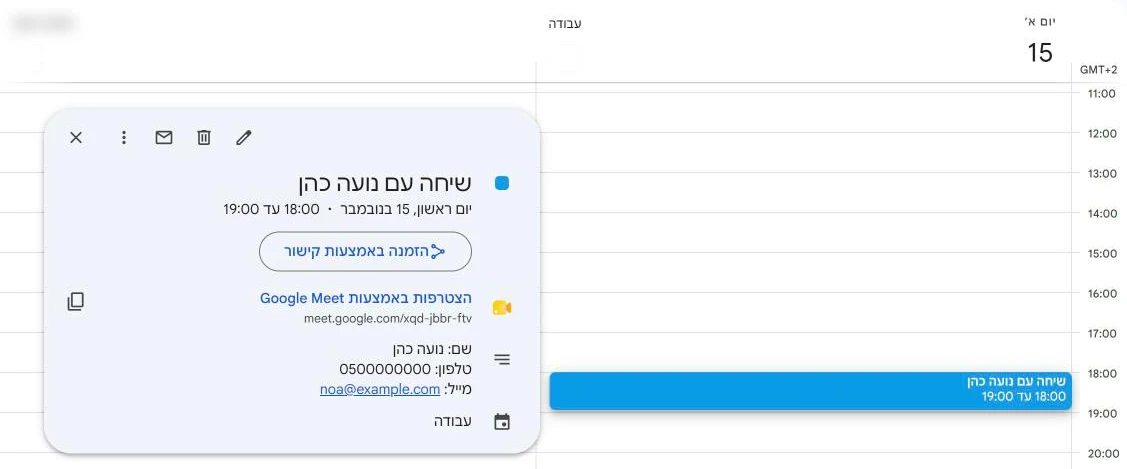
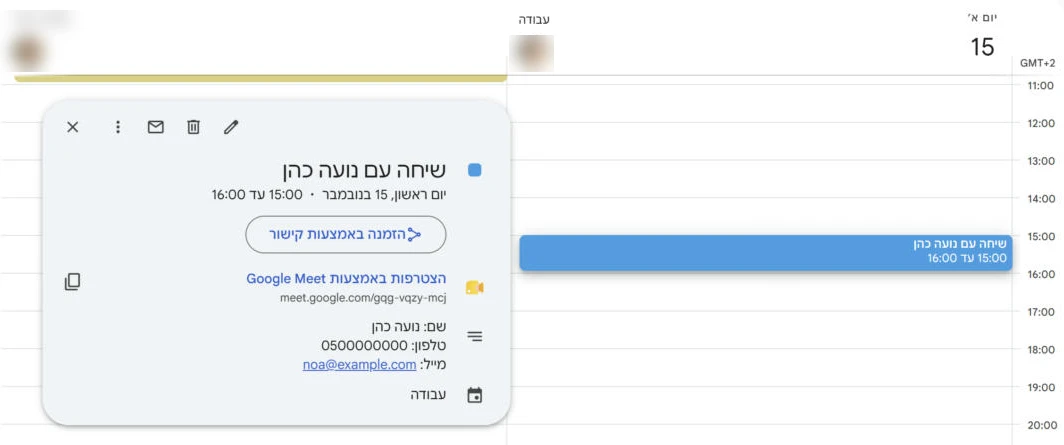
yoman: צילום יומן גוגל של אותה פגישה כמו בטופס (15:00)

diff --git a/yoman/index.html b/yoman/index.html
@@ -191,7 +191,7 @@
         <div class="shot-head shot-head-sm">
           <h4 class="feat-sub">וככה זה נראה ביומן גוגל שלכם - נכנס לשם אוטומטית</h4>
         </div>
-        <figure class="shot shot-mid" style="max-width:820px"><img src="/assets/img/yoman/google-event.webp?v=1" width="1127" height="469" loading="lazy" alt="הפגישה ביומן גוגל: שיחה עם נועה כהן, קישור לגוגל-מיט, ושם, טלפון ומייל של הלקוחה" /></figure>
+        <figure class="shot shot-mid" style="max-width:820px"><img src="/assets/img/yoman/google-event.webp?v=2" width="1064" height="445" loading="lazy" alt="הפגישה ביומן גוגל: שיחה עם נועה כהן, קישור לגוגל-מיט, ושם, טלפון ומייל של הלקוחה" /></figure>
       </div>
     </section>
 
